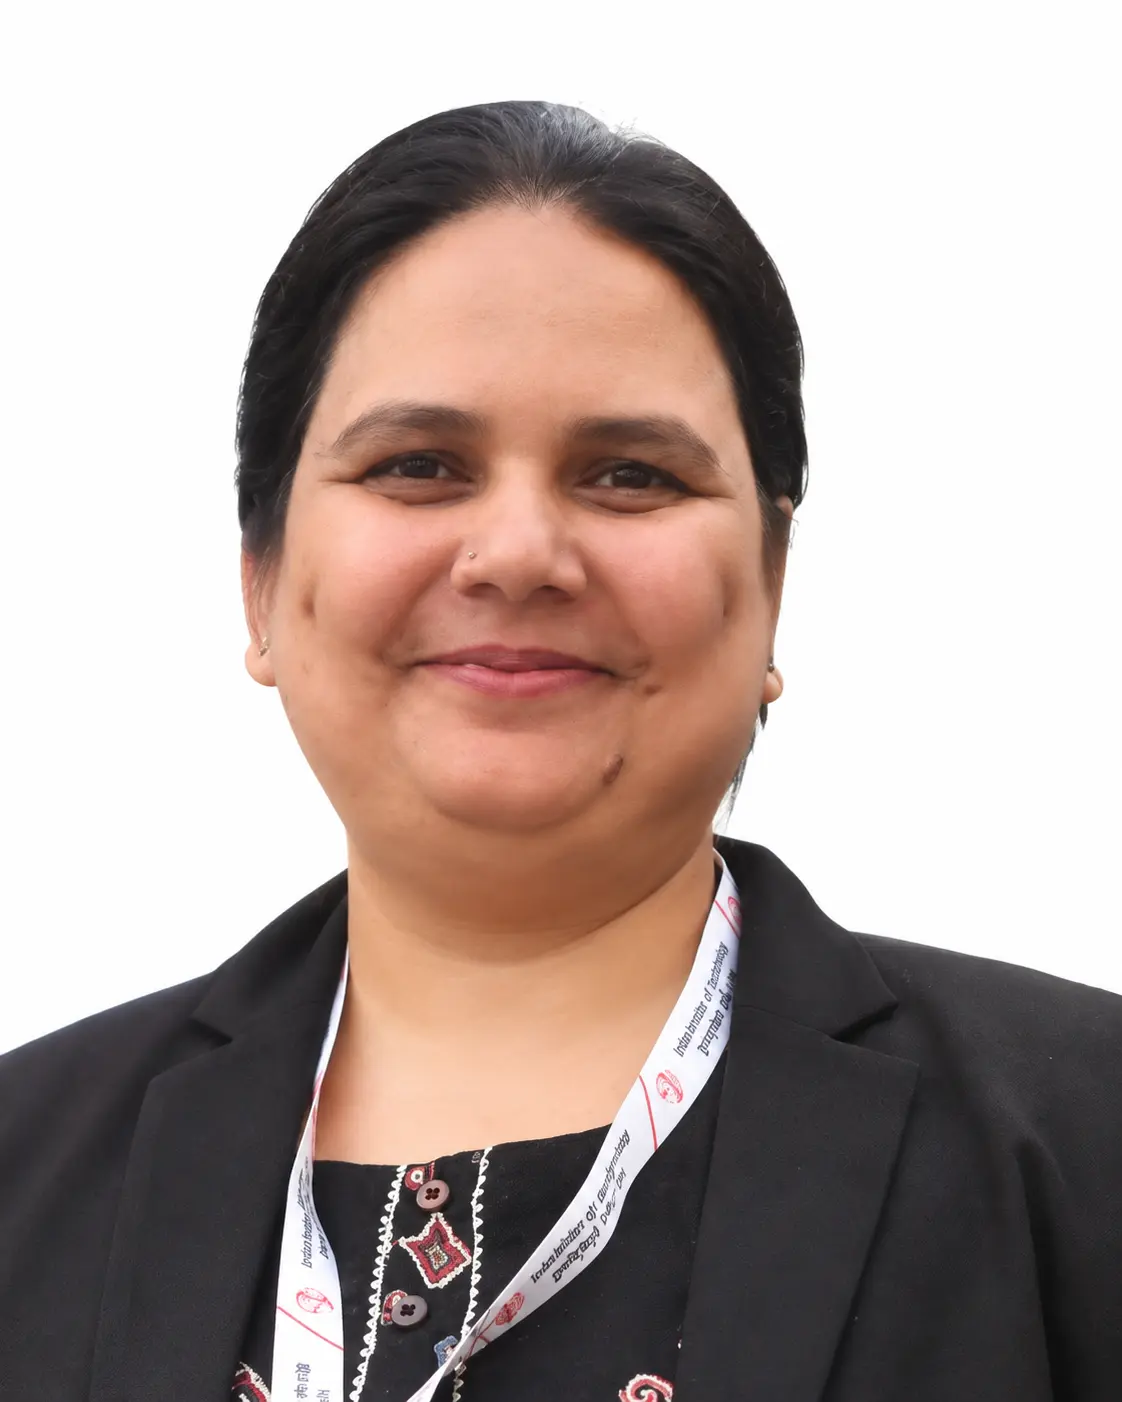
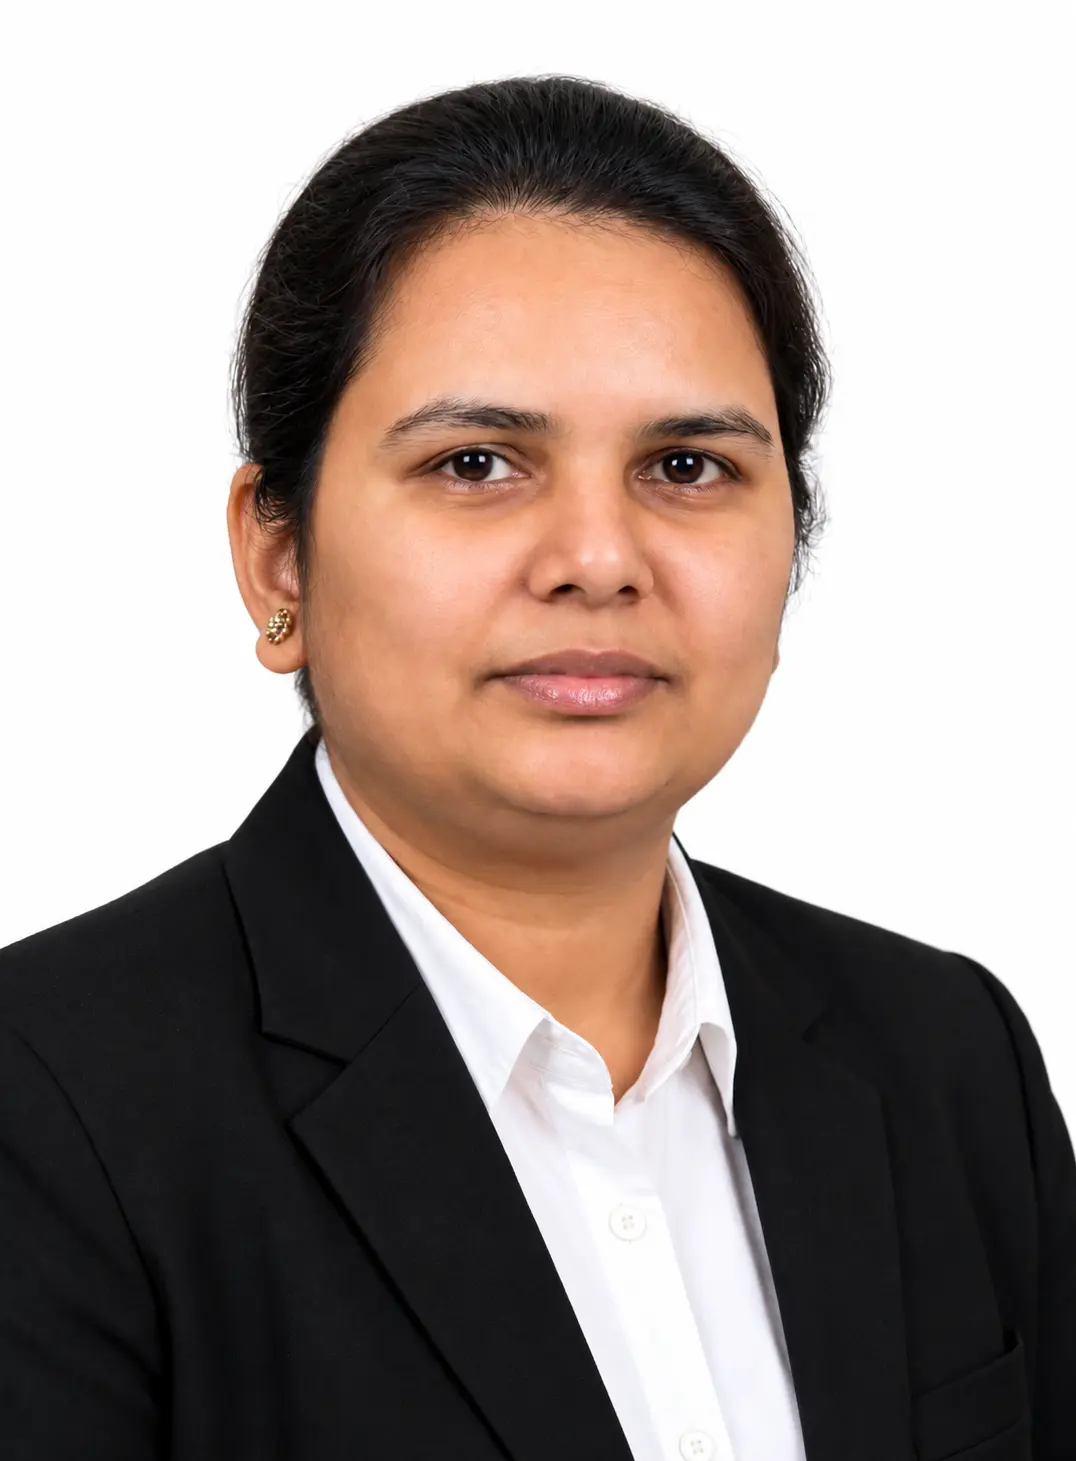
photo and profile changes

diff --git a/team.html b/team.html
@@ -64,7 +64,9 @@
       <div>
         <h3>Adv. Ashu Dalmia</h3>
         <span class="role">Founder &middot; Chartered Accountant &amp; Advocate</span>
-        <p>Ashu Dalmia founded the Chambers on the strength of over two decades of practice at the intersection of taxation, GST consultancy, and litigation. A rank holder both at graduation from Lucknow University and in CA Inter, he built his early reputation on rigorous, evidence-led advisory work — a discipline that continues to define his approach to indirect taxation, transfer pricing, audits, valuations, and corporate governance today. His client base spans Indian and foreign corporates, with particular depth in the logistics and services sectors.</p>
+        <p>Ashu Dalmia is the Founder of ADA Law Chambers, an Advocate, and a former Chartered Accountant with extensive experience in indirect taxation and commercial laws. He specializes in GST litigation and advisory services, as well as arbitration, contract drafting, dispute resolution, and commercial legal matters. He has also been actively involved in the implementation of VAT projects in Saudi Arabia and the UAE, providing strategic tax advisory and compliance support.</p>
+        <p>He has served as a Special Invitee to the Indirect Taxes Committee of ICAI, contributing significantly to the development, interpretation, and dissemination of indirect tax laws and best practices. As a distinguished faculty member of ICAI and other leading professional bodies, he has delivered more than 1,000 seminars, workshops, and training programs for professionals, corporates, government departments, and industry participants.</p>
+        <p>He is also a respected author, speaker, and thought leader in the field of indirect taxation, widely recognized for his ability to simplify complex tax laws and provide practical, business-oriented solutions to organizations and professionals.</p>
       </div>
     </div>
     <div class="bio-block">
